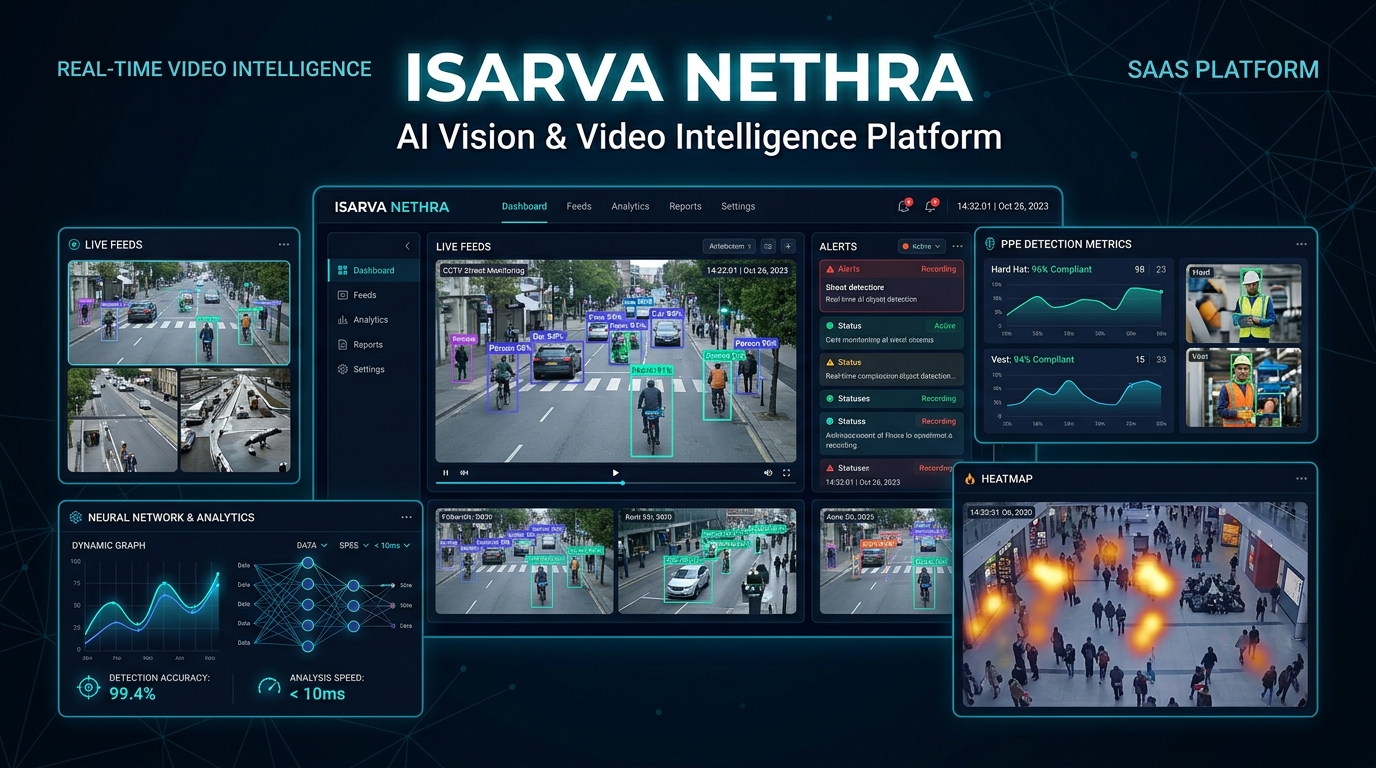
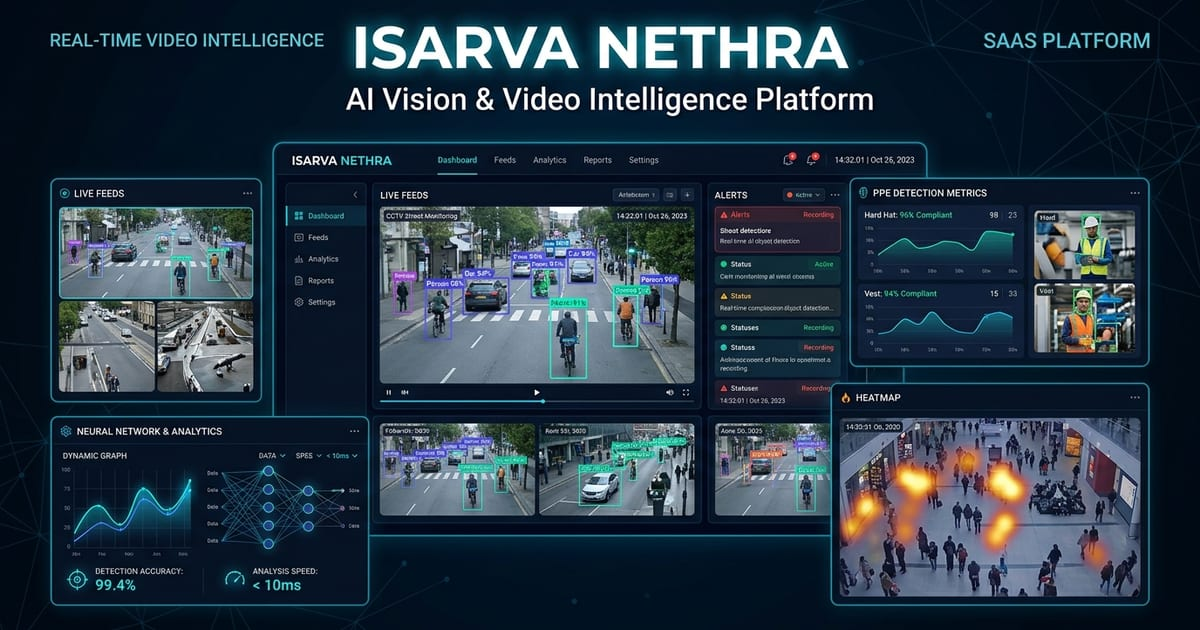
fix(seo): compress Isarva Nethra OG image to 122KB & update SEO skill standards

diff --git a/.agents/skills/isarva-seo-og-management/SKILL.md b/.agents/skills/isarva-seo-og-management/SKILL.md
@@ -21,12 +21,50 @@ All pages must leverage the centralized SEO generator helpers rather than defini
 - `generateServiceMetadata(service)`: Formats service metadata and maps `ogImage` $\rightarrow$ `heroImage` $\rightarrow$ `/isarva-og.jpg`.
 - `generateIndustryMetadata(industry)`: Formats industry metadata and maps `ogImage` $\rightarrow$ `heroImage`.
 
-### Safe Image URL Encoding Rule
+---
+
+## 2. Strict Image Standards for Social Previews (WhatsApp, LinkedIn, Twitter, Facebook)
+
+### A. Size & Dimension Requirements
+- **Max File Size:** **< 300 KB** (WhatsApp crawler hard limit: drops images > 300 KB).
+- **Target File Size:** **100 KB – 200 KB** (Ensures instant scraper downloads within 3-second timeout window).
+- **Dimensions:** **1200 × 630 px** (1.91:1 aspect ratio standard for Open Graph and Twitter `summary_large_image`).
+- **Format:** High-efficiency `.jpg` (MozJPEG ~80–85% quality) or `.webp`.
+
+### B. Safe Image URL Encoding Rule
 Always ensure URLs with spaces or special characters (e.g. `Banking & Financial`) are safely encoded using `encodeURI(decodeURI(rawImageUrl))` to prevent sharing card failures on WhatsApp, Twitter, LinkedIn, and Facebook scrapers.
+
+### C. Direct Canonical URLs vs Redirects
+Social crawlers (especially WhatsApp) frequently fail to resolve images across 307/308 HTTP redirects. Always share and link to direct canonical routes (e.g., `/product/isarva-nethra` rather than `/isarva-nethra`).
 
 ---
 
-## 2. Page Types & Patterns
+## 3. Image Optimization with Sharp
+
+Whenever adding or updating an OG banner image, compress and crop it to 1200×630 using `sharp`:
+
+```bash
+node -e "
+const sharp = require('sharp');
+const fs = require('fs');
+
+async function optimize(file) {
+  const temp = file.replace(/(\.[a-z]+)$/i, '-opt$1');
+  await sharp(file)
+    .resize(1200, 630, { fit: 'cover', position: 'center' })
+    .jpeg({ quality: 82, mozjpeg: true })
+    .toFile(temp);
+  fs.renameSync(temp, file);
+  console.log('Optimized:', file, (fs.statSync(file).size / 1024).toFixed(1) + ' KB');
+}
+
+optimize('./public/products/your-product/og-image.jpg');
+"
+```
+
+---
+
+## 4. Page Types & Patterns
 
 ### A. Dynamic Catalog Pages (`/product/[slug]`, `/service/[slug]`, `/industry/[slug]`)
 1. Add data attributes (`ogImage`, `metaDescription`, `seoTitle`, `keywords`) directly in data files:
@@ -57,19 +95,42 @@ In Next.js App Router, pages with `"use client"` cannot export `metadata`. Conve
 
 ---
 
-## 3. Audit & Verification Workflow
+## 5. Audit & Verification Workflow
 
-### Run Quick Node Audit
-To check whether any product, service, or static route lacks OG tags:
+### Run OG Tag & Size Audit
+To check whether any product, service, or static route has missing OG tags or images exceeding 300 KB:
+
 ```bash
 node -e "
 const fs = require('fs');
+const path = require('path');
 const { productsData } = require('./src/app/lib/data/products-data.js');
-const { generateProductMetadata } = require('./src/app/lib/utils/seo.js');
-productsData.forEach(p => {
-  const meta = generateProductMetadata(p);
-  console.log(p.slug, '->', meta.openGraph?.images?.[0]?.url);
-});
+const { servicesData } = require('./src/app/lib/data/services-data.js');
+const { industriesData } = require('./src/app/lib/data/industries-data.js');
+
+function audit(items, label) {
+  console.log('=== ' + label + ' ===');
+  items.forEach(item => {
+    const img = item.ogImage || item.heroImage || item.image;
+    if (!img) {
+      console.log('[NO IMAGE]', item.slug);
+      return;
+    }
+    const local = path.join('./public', img.replace(/^\//, ''));
+    if (!fs.existsSync(local)) {
+      console.log('[MISSING FILE]', item.slug, '->', img);
+    } else {
+      const kb = (fs.statSync(local).size / 1024).toFixed(1);
+      if (kb > 300) {
+        console.log('[OVER 300KB]', item.slug, '->', img, '(' + kb + ' KB)');
+      }
+    }
+  });
+}
+
+audit(productsData, 'PRODUCTS');
+audit(servicesData, 'SERVICES');
+audit(industriesData, 'INDUSTRIES');
 "
 ```
 
